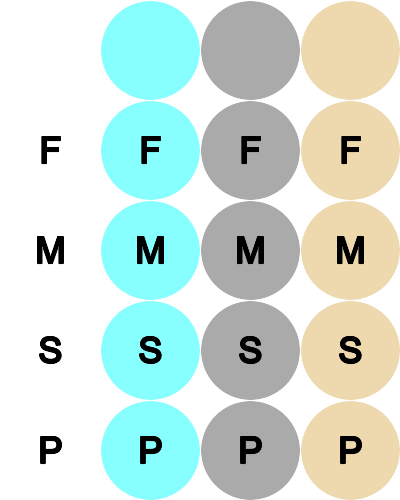
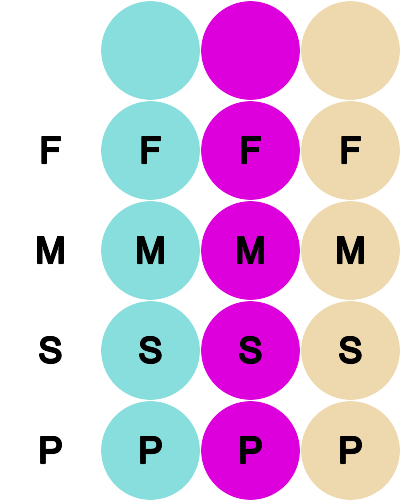
minor tweaks

diff --git a/map.html b/map.html
@@ -1,7 +1,7 @@
 <html>
   <link rel="stylesheet" type="text/css" href="babylonia.css" />
   <script>
-    var currentColor = 0;
+    var currentColor = 3;
     function cycleThings(e) {
 	let colors = [
 	    "wood",
